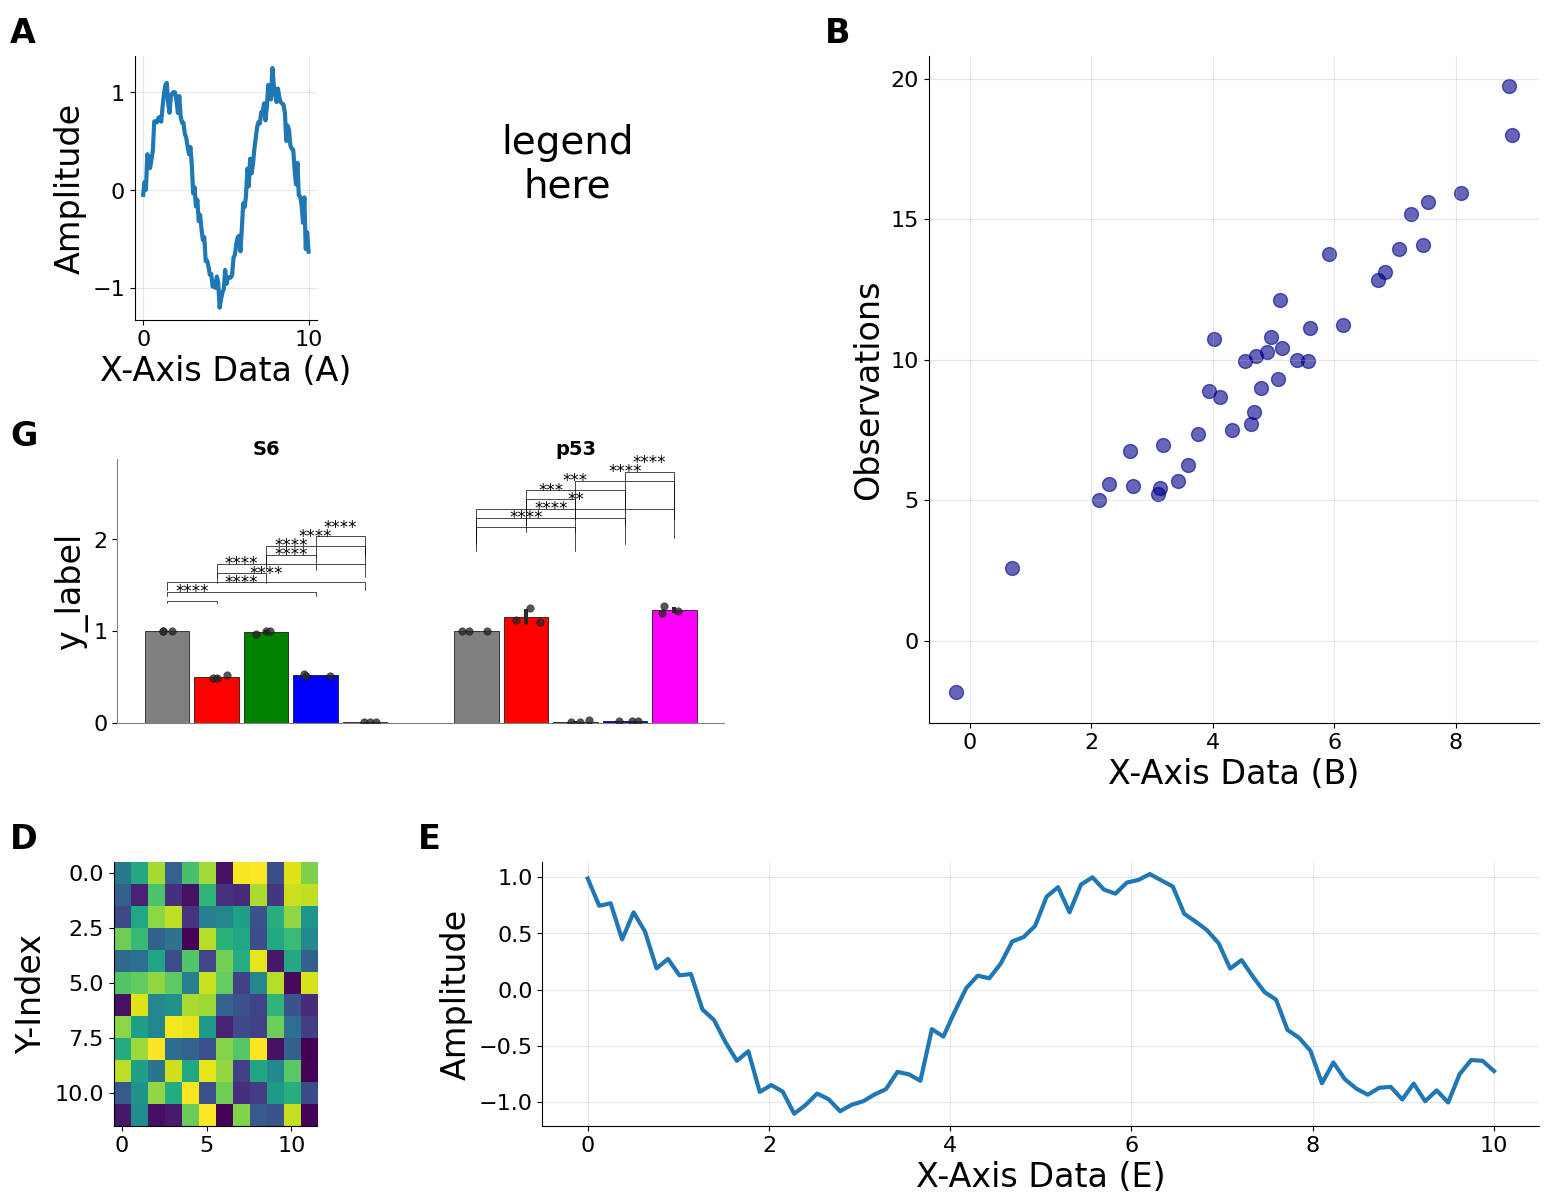
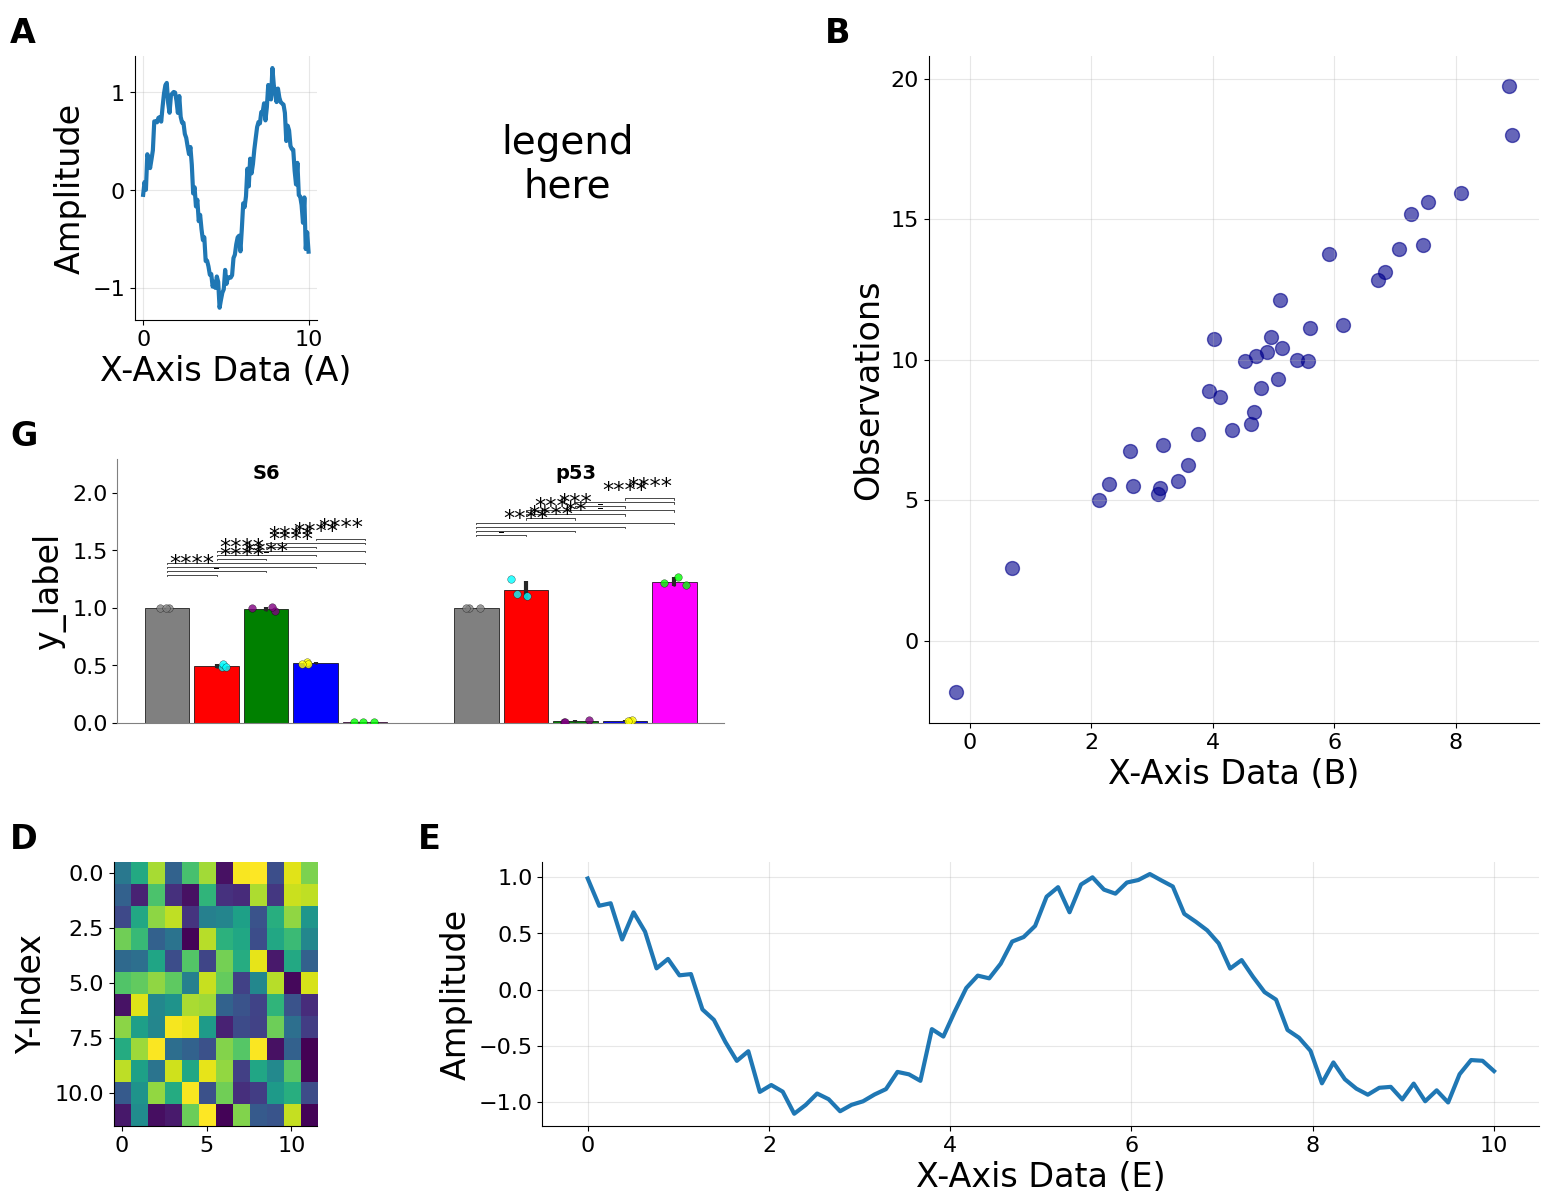
asterisk font size fix

diff --git a/mplib/bar_w_stats.py b/mplib/bar_w_stats.py
@@ -5,7 +5,10 @@ import numpy as np
 import pandas as pd
 import matplotlib.pyplot as plt
 from matplotlib.axes import Axes
+from matplotlib import  rcParams
 from scipy import stats
+from matplotlib.colors import to_hex
+from colorGenerator import Color
 
 # =============================================================================
 # Color Configuration
@@ -38,7 +41,7 @@ def calculate_summary_statistics(df: pd.DataFrame,
         DataFrame with summary statistics (columns: [leading_column, attribute, mean, sd, count])
     """
     records = []
-    
+
     # Identify data columns (all columns except the leading column)
     data_columns = [col for col in df.columns if col != leading_column]
 
@@ -61,7 +64,7 @@ def calculate_summary_statistics(df: pd.DataFrame,
                     "sd": np.nan,
                     "count": 0
                 })
-    
+
     if not records:
         return pd.DataFrame(columns=[leading_column, "attribute", "mean", "sd", "count"])
 
@@ -81,10 +84,10 @@ def perform_tukey_hsd(df: pd.DataFrame,
         DataFrame with pairwise comparison results
     """
     results = []
-    
+
     # Identify data columns (attributes)
     attributes = [col for col in df.columns if col != leading_column]
-    
+
     if len(attributes) < 2:
         return pd.DataFrame()
 
@@ -145,6 +148,34 @@ def get_significance_symbol(p_value: float) -> str:
         return "-"
 
 
+def get_complementary_color(color_name: str) -> str:
+    """
+    Get the complementary color for a given color (name or hex) using colorGenerator.
+    """
+    # Convert named colors (e.g. 'red') to hex
+    hex_color = to_hex(color_name)
+
+    if hex_color.startswith('#'):
+        hex_color = hex_color[1:]
+
+    # Convert hex to RGB (0-255)
+    r = int(hex_color[0:2], 16)
+    g = int(hex_color[2:4], 16)
+    b = int(hex_color[4:6], 16)
+
+    # Create Color object
+    c = Color(rgb=(r, g, b))
+
+    # Get complementary color object
+    comp = c.complementary()
+
+    # Get RGB values (returns tuple of 0-255 ints via __repr__)
+    comp_rgb = comp.__repr__()
+
+    # Convert RGB to hex string
+    return '#{:02x}{:02x}{:02x}'.format(*comp_rgb)
+
+
 # =============================================================================
 # Plotting Functions
 # =============================================================================
@@ -152,22 +183,23 @@ def get_significance_symbol(p_value: float) -> str:
 def _add_data_points(ax: plt.Axes, df: pd.DataFrame, attribute: str,
                      groups: np.ndarray, leading_column: str,
                      x_positions: np.ndarray, bar_width: float,
-                     color: str) -> None:
+                     bar_color: str) -> None:
     """Add jittered data points to the plot."""
     for j, group in enumerate(groups):
         # Filter rows for the current group
         group_data = df[df[leading_column] == group]
-        
+
         # Extract values for the current attribute (column)
         if attribute in group_data.columns:
             values = group_data[attribute].dropna().values
-            
+
             if len(values) > 0:
                 # Add jitter to x positions
                 jitter = np.random.uniform(-bar_width * 0.3, bar_width * 0.3, len(values))
                 x_jittered = x_positions[j] + jitter
 
-                ax.scatter(x_jittered, values, color="#282828", edgecolor="black",
+                point_color = get_complementary_color(bar_color)
+                ax.scatter(x_jittered, values, color=point_color, edgecolor="black",
                            linewidth=0.25, s=30, alpha=0.8, zorder=3)
 
 
@@ -175,16 +207,33 @@ def _add_significance_annotations(ax: plt.Axes, stat_results: pd.DataFrame,
                                   summary_df: pd.DataFrame, groups: np.ndarray,
                                   attributes: np.ndarray, leading_column: str,
                                   group_positions: np.ndarray,
-                                  bar_width: float) -> None:
+                                  bar_width: float) -> float:
     """Add significance bars and annotations to the plot."""
     # Calculate y range for positioning
     y_max = (summary_df["mean"] + summary_df["sd"]).max()
-    y_range = y_max - summary_df["mean"].min()
-    annotation_offset = y_range * 0.05
+    y_min = summary_df["mean"].min()
+    y_range = y_max - y_min if (y_max - y_min) > 0 else 1.0
+
+    # Get axis tick label font size
+    tick_label_size = rcParams["ytick.labelsize"]
+
+    asterisk_fontsize = tick_label_size * 0.5
+
+    # Estimate asterisk height in data coordinates (rough heuristic)
+    fig_height_in = ax.get_figure().get_size_inches()[1]
+
+    # Data range per inch
+    data_per_inch = y_range / fig_height_in
+
+    # Height in data coords (approx)
+    asterisk_height_data = (asterisk_fontsize / 72.0) * data_per_inch * 2
+
+    current_y_offset = y_max + asterisk_height_data
+
+    max_y_used = current_y_offset
 
     for _, row in stat_results.iterrows():
-        if row["significance"] == "-":  # Skip non-significant
-            continue
+        # User wants dashes for "no significance", so we don't skip "-"
 
         group = row[leading_column]
         group_idx = np.where(groups == group)[0]
@@ -204,18 +253,45 @@ def _add_significance_annotations(ax: plt.Axes, stat_results: pd.DataFrame,
         n_attributes = len(attributes)
         x1 = group_positions[group_idx] + (attr1_idx[0] - n_attributes / 2 + 0.5) * bar_width
         x2 = group_positions[group_idx] + (attr2_idx[0] - n_attributes / 2 + 0.5) * bar_width
-        y_bar = y_max + annotation_offset
+
+        # Vertical space from previous elements
+        y_bar = current_y_offset
+
+        # Vertical lines height = 1/2 asterisk height
+        v_line_h = asterisk_height_data * 0.5
 
         # Draw significance bar
-        ax.plot([x1, x1, x2, x2],
-                [y_bar - annotation_offset * 0.3, y_bar, y_bar, y_bar - annotation_offset * 0.3],
-                color="black", linewidth=0.5)
+        ax.plot([x1, x1, x2, x2], [y_bar - v_line_h, y_bar, y_bar, y_bar - v_line_h], color="black", linewidth=0.5)
 
-        # Add significance symbol
-        ax.text((x1 + x2) / 2, y_bar, row["significance"], ha="center", va="bottom", fontsize=12)
+        symbol = row["significance"]
+        if symbol == "-":
+            # Dash for no significance
+            dash_width = bar_width * 0.1
+            dash_height = asterisk_height_data * 0.33
+            center_x = (x1 + x2) / 2
 
-        # Update offset for next annotation
-        annotation_offset += y_range * 0.08
+            # Draw dash as a rectangle/thick line
+            rect = plt.Rectangle((center_x - dash_width/2, y_bar + v_line_h),
+                                 dash_width, dash_height,
+                                 facecolor="black", edgecolor="none")
+            ax.add_patch(rect)
+
+            # Update max used
+            max_y_used = max(max_y_used, y_bar + v_line_h + dash_height)
+
+        else:
+            # Add significance symbol
+            text_y = y_bar + v_line_h
+            ax.text((x1 + x2) / 2, text_y, symbol, ha="center", va="bottom", fontsize=asterisk_fontsize)
+
+            # Update max used
+            max_y_used = max(max_y_used, text_y + asterisk_height_data)
+
+        # Update offset for next annotation: vertical space = 1/2 asterisk height
+        current_y_offset += (asterisk_height_data * 1.5)
+
+    return max_y_used
+
 
 def get_color_for_attribute(attribute: str) -> str:
     """
@@ -231,7 +307,7 @@ def get_color_for_attribute(attribute: str) -> str:
 
 
 def _configure_axes(ax: plt.Axes, groups: np.ndarray, attributes: np.ndarray,
-                    y_label: str, bar_width: float) -> None:
+                    y_label: str, bar_width: float, top_y_annotation: float = None) -> None:
     """Configure axis labels, ticks, and appearance."""
     # Y-axis
     ax.set_ylabel(y_label)
@@ -240,9 +316,26 @@ def _configure_axes(ax: plt.Axes, groups: np.ndarray, attributes: np.ndarray,
     group_positions = np.arange(len(groups))
 
     # Set group names at the top
+    # Use top_y_annotation if provided, else use current ylim top
+
+    current_top = ax.get_ylim()[1]
+    label_y = top_y_annotation if top_y_annotation is not None else current_top
+
+    # Add some padding
+    # Estimate padding same way as other elements or just a fixed factor
+    # y_range approximation
+    y_min, y_max = ax.get_ylim()
+    y_range = y_max - y_min
+    padding = y_range * 0.05
+    label_y += padding
+
     for i, group in enumerate(groups):
-        ax.text(group_positions[i], ax.get_ylim()[1], str(group),
+        ax.text(group_positions[i], label_y, str(group),
                 ha="center", va="bottom", fontsize=14, fontweight="bold")
+
+    # Update ylim to include labels
+    # Rough estimate of label height
+    ax.set_ylim(top=label_y + padding * 2)
 
     # Remove grid and spines
     ax.spines["top"].set_visible(False)
@@ -254,7 +347,7 @@ def _configure_axes(ax: plt.Axes, groups: np.ndarray, attributes: np.ndarray,
 
 
 def create_grouped_bar_plot(ax: Axes, df: pd.DataFrame, summary_df: pd.DataFrame,
-                            stat_results: pd.DataFrame, 
+                            stat_results: pd.DataFrame,
                             y_label: str,  show_points: bool = True) -> None:
     """
     Create a grouped bar plot with error bars and significance annotations.
@@ -272,11 +365,11 @@ def create_grouped_bar_plot(ax: Axes, df: pd.DataFrame, summary_df: pd.DataFrame
     """
     # Get unique groups and attributes
     leading_column = df.columns[0]
-    
+
     # Attributes are all columns except the leading one
     attributes = np.array([col for col in df.columns if col != leading_column])
     groups = df[leading_column].unique()
-    
+
     n_groups = len(groups)
     n_attributes = len(attributes)
 
@@ -320,13 +413,14 @@ def create_grouped_bar_plot(ax: Axes, df: pd.DataFrame, summary_df: pd.DataFrame
                              x_positions, bar_width, color)
 
     # Add significance annotations
+    top_y = (summary_df["mean"] + summary_df["sd"]).max()
     if not stat_results.empty:
-        _add_significance_annotations(ax, stat_results, summary_df, groups,
+        top_y = _add_significance_annotations(ax, stat_results, summary_df, groups,
                                       attributes, leading_column,
                                       group_positions, bar_width)
 
     # Configure axes
-    _configure_axes(ax, groups, attributes, y_label, bar_width)
+    _configure_axes(ax, groups, attributes, y_label, bar_width, top_y_annotation=top_y)
 
 
 def bar_plot_w_stats(ax: Axes, df: pd.DataFrame, panel_label: str) -> None:

diff --git a/test_bar_plot.py b/test_bar_plot.py
@@ -1,0 +1,29 @@
+import pandas as pd
+import numpy as np
+import matplotlib.pyplot as plt
+from mplib.bar_w_stats import bar_plot_w_stats
+
+# Create mock data
+np.random.seed(42)
+data = []
+groups = ['Control', 'Treatment']
+attributes = ['Value1', 'Value2']
+
+for group in groups:
+    for _ in range(10):
+        data.append({
+            'Group': group,
+            'Value1': np.random.normal(10 if group == 'Control' else 12, 2),
+            'Value2': np.random.normal(20 if group == 'Treatment' else 22, 3)
+        })
+
+df = pd.DataFrame(data)
+
+# Create plot
+fig, ax = plt.subplots(figsize=(10, 6))
+try:
+    bar_plot_w_stats(ax, df, "Test Panel")
+    plt.savefig("test_bar_plot.png")
+    print("Plot created successfully: test_bar_plot.png")
+except Exception as e:
+    print(f"Error creating plot: {e}")
